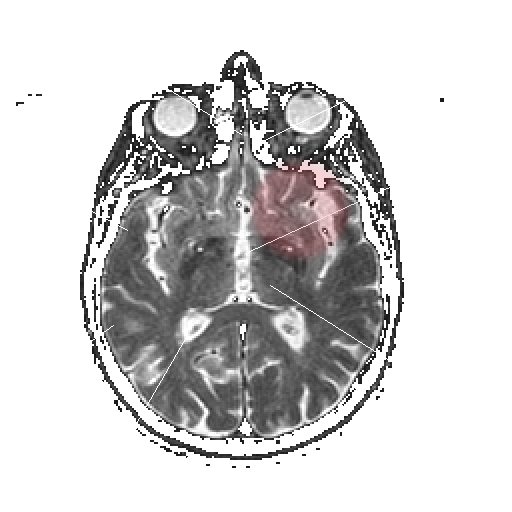
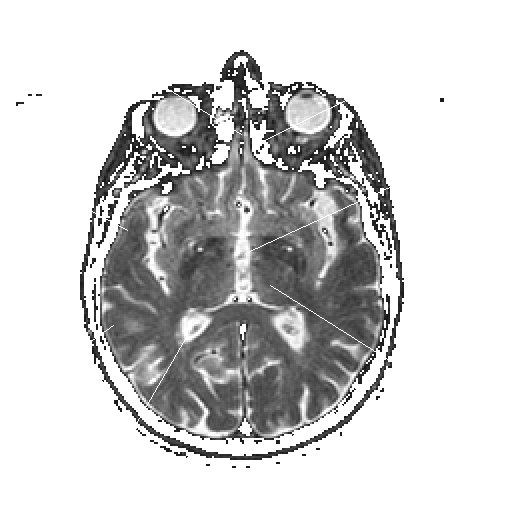
Separate brain slices: clean for blog, red findings for presentation

Changed region(s): [[0.4688, 0.3125, 0.6875, 0.5]]

diff --git a/presentations/guided-attention.html b/presentations/guided-attention.html
@@ -323,7 +323,7 @@ if (container) {
     for (var i = 0; i < NUM; i++) {
         (function(idx) {
             var p = idx < 10 ? '0' + idx : '' + idx;
-            loader.load('/static/portfolio/images/blog/brain/slice_' + p + '.png', function(tex) {
+            loader.load('/static/portfolio/images/presentations/brain/slice_' + p + '.png', function(tex) {
                 tex.minFilter = THREE.LinearFilter;
                 var s = 0.4 + Math.sin((idx + 0.5) / NUM * Math.PI) * 0.9;
                 var geo = new THREE.PlaneGeometry(SLICE_SIZE * s, SLICE_SIZE * s);
